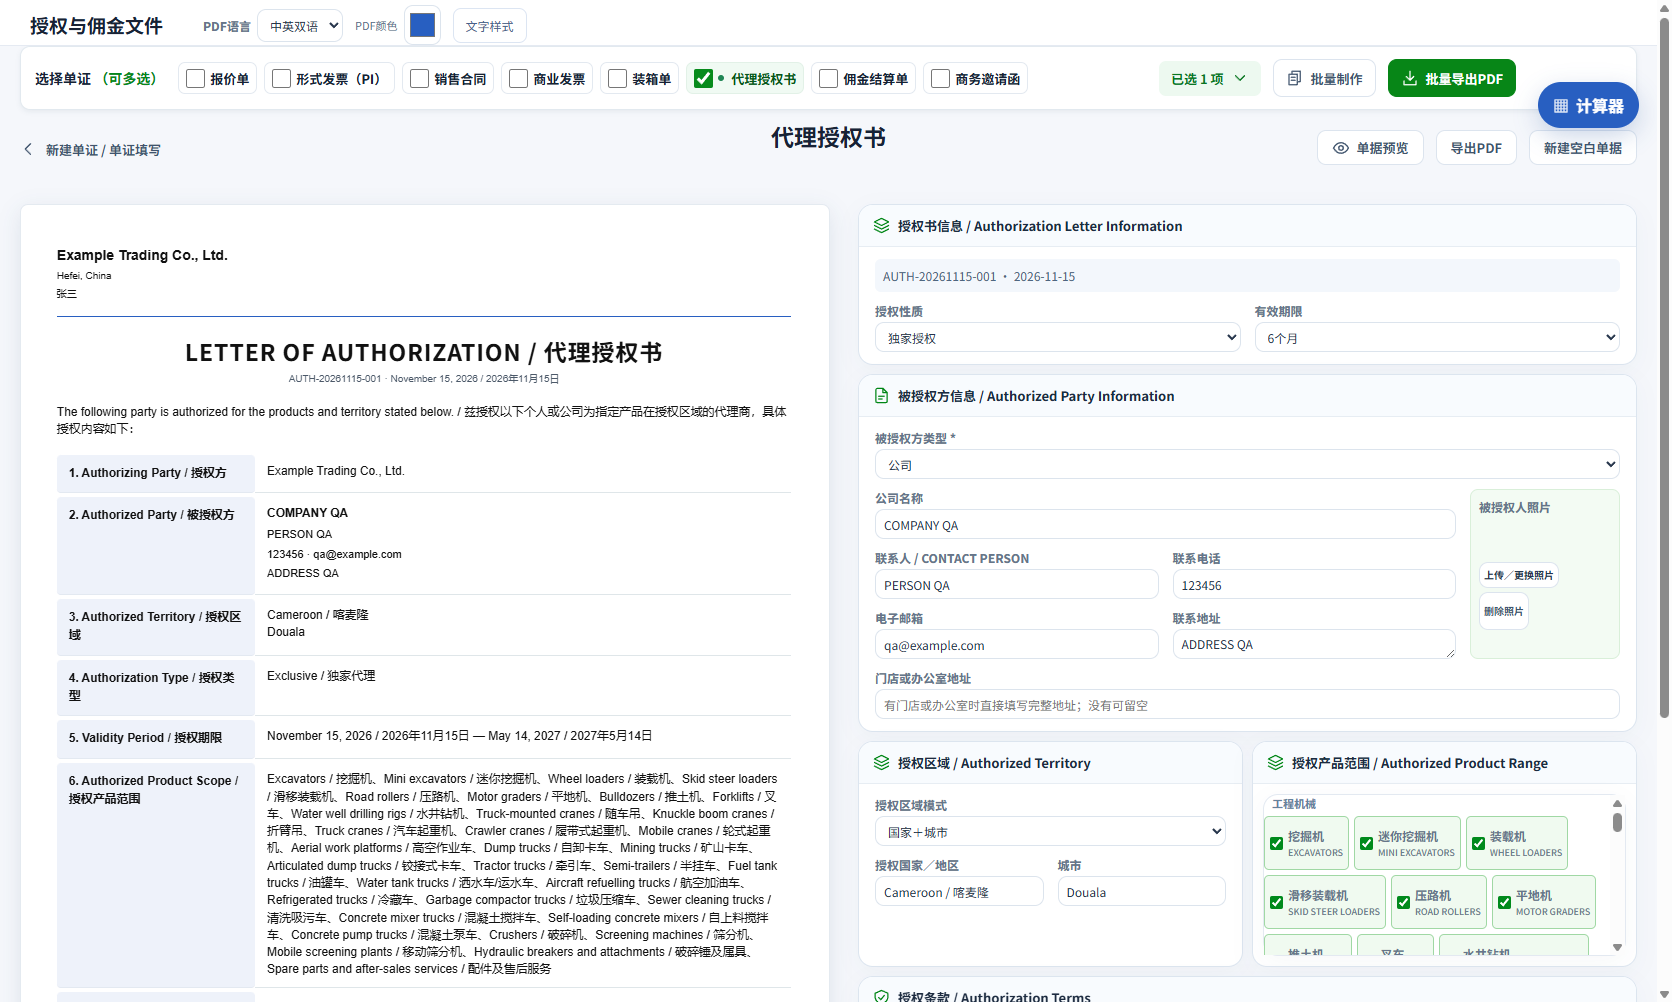
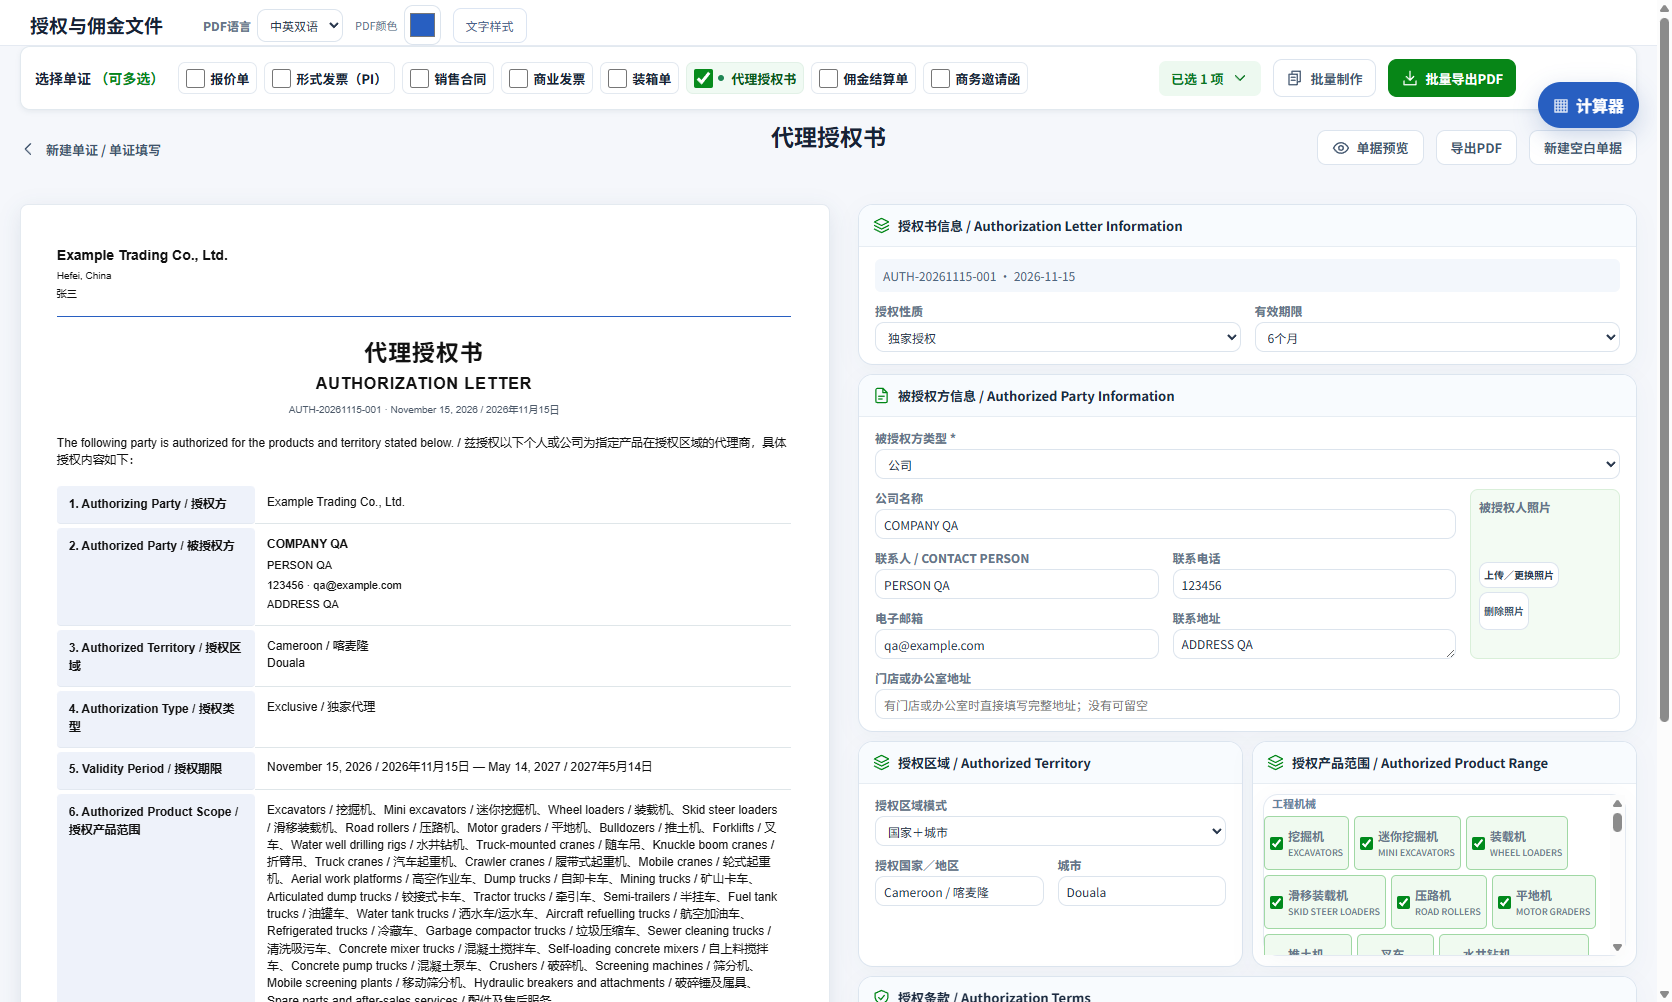
Align authorization display controls and updated regression fixtures

Changed region(s): [[0.0311, 0.3403, 0.4665, 1.0]]

diff --git a/assets/authorization-model.js b/assets/authorization-model.js
@@ -7,8 +7,9 @@
  function render(record,company,config,tools){const e=escape,t=(en,zh)=>tools.text(en,zh),lang=record.language||'bilingual',isZh=lang==='zh',name=isZh?company.companyNameZh||company.companyNameEn:company.companyNameEn||company.companyNameZh,party=get(record,'authorizedPartyType')==='company'?get(record,'recipientCompany'):record.agentName,country=tools.country(record.country,lang),city=get(record,'territoryMode')==='city'?get(record,'authorizedCity'):t('Nationwide','全国范围'),photo=tools.safeImage(get(record,'authorizedPhoto')),color=/^#[0-9a-f]{6}$/i.test(record.tableHeaderColor)?record.tableHeaderColor:'#008900',showHeader=get(record,'showCompanyHeader',true)!==false,showLogo=get(record,'showLogo',true)!==false,logo=tools.safeImage(company.logoDataUrl),field=key=>Object.values(config?.blocks||{}).flat().find(f=>f.fieldKey===key),visible=key=>{const f=field(key);return !f||!f.deletedAt&&f.visible!==false&&f.active!==false;};
  const extra=[...new Set(Object.values(config?.blocks||{}).flat().filter(f=>visible(f.fieldKey)&&!['authorizationNumber','date','validUntil','agentName','country','idNumber','phone','email','address','officeAddress','selectedProducts','authorizationType','extraTerms',...Object.keys(defaults),'recipientCompany'].includes(f.fieldKey)).map(f=>f.fieldKey))].filter(key=>get(record,key)!==''&&get(record,key)!==undefined).map(key=>'<p><b>'+e(t(field(key)?.en||key,field(key)?.zh||key))+'</b> '+e(tools.value?tools.value(field(key),get(record,key)):get(record,key))+'</p>').join('');
  const clauses=[['allowBrandUse','The authorized party may promote and sell the designated products under the company brand within the authorized territory.','被授权方可在授权区域内推广和销售本公司品牌的指定产品。'],['noSubAuthorization','No sub-authorization.','不得转授权。'],['finalPriceConfirmation','Final prices are subject to seller confirmation.','最终价格须经卖方确认。']].filter(([key])=>visible(key)&&get(record,key,true)!==false).map(([,en,zh])=>'<li>'+e(t(en,zh))+'</li>').join('');
+ const titleHTML=['bilingual','zh-en'].includes(lang)?'<h1>代理授权书</h1><div class="authorization-title-en">AUTHORIZATION LETTER</div>':'<h1>'+e(t('Letter of Authorization','代理授权书'))+'</h1>';
  const row=(number,en,zh,content,cls='')=>'<tr class="'+cls+'"><th>'+number+'. '+e(t(en,zh))+'</th><td>'+content+'</td></tr>',signature=tools.signing(record,company,'authorization');
- return '<section class="agency-sheet authorization-letter-v2" style="--authorization-accent:'+color+'"><header class="authorization-letterhead">'+(showLogo&&logo?'<img class="authorization-logo" src="'+e(logo)+'" alt="Logo">':'')+(showHeader?'<div><b>'+e(name)+'</b><small>'+e(isZh?company.companyAddressZh||company.companyAddressEn:company.companyAddressEn||company.companyAddressZh)+'</small><small>'+e([signature.name,company.phone||company.contactPhone,company.email].filter(Boolean).join('  ·  '))+'</small></div>':'')+'</header><h1>'+e(t('LETTER OF AUTHORIZATION','代理授权书'))+'</h1><div class="authorization-paper-meta">'+e(record.authorizationNumber)+' · '+e(tools.date(record.date,lang))+'</div><p>'+e(t('The following party is authorized for the products and territory stated below.','兹授权以下个人或公司为指定产品在授权区域的代理商，具体授权内容如下：'))+'</p><table class="authorization-information"><colgroup><col style="width:27%"><col style="width:73%"></colgroup><tbody>'+row(1,'Authorizing Party','授权方',e(name))+row(2,'Authorized Party','被授权方',(photo?'<figure class="authorization-person-photo"><img src="'+e(photo)+'" alt="Authorized person"><figcaption>'+e(t('Authorized person photo','被授权人照片'))+'</figcaption></figure>':'')+'<b>'+e(party)+'</b>'+(get(record,'authorizedPartyType')==='company'?'<p>'+e(record.agentName)+'</p>':'')+'<p>'+e([visible('phone')?record.phone:'',visible('email')?record.email:''].filter(Boolean).join(' · '))+'</p>'+(visible('address')&&record.address?'<p>'+e(record.address)+'</p>':'')+(visible('idNumber')&&record.idNumber?'<p>'+e(t('ID / Passport No.','证件号码'))+': '+e(record.idNumber)+'</p>':''))+row(3,'Authorized Territory','授权区域',e(country)+'<br>'+e(city))+row(4,'Authorization Type','授权类型',e(get(record,'authorizationType','non-exclusive')==='exclusive'?t('Exclusive','独家代理'):t('Non-exclusive','非独家代理')))+row(5,'Validity Period','授权期限',e(tools.date(record.date,lang))+' — '+e(tools.date(record.validUntil,lang)))+row(6,'Authorized Product Scope','授权产品范围',e(tools.products(record)))+row(7,'Terms of Authorization','授权条款','<ul>'+clauses+'</ul>'+(record.extraTerms?'<p class="preserve-lines">'+e(record.extraTerms)+'</p>':'')+extra)+row(8,'Signature and Seal','签章区','<div class="authorization-signatures"><div><b>'+e(t('Authorizing Party','授权方'))+': '+e(name)+'</b><p>'+e(t('Authorized Signatory','授权代表'))+': '+e(signature.name)+'</p></div>'+tools.signingHTML(signature)+'</div>')+'</tbody></table></section>';
+ return '<section class="agency-sheet authorization-letter-v2" style="--authorization-accent:'+color+'"><header class="authorization-letterhead">'+(showLogo&&logo?'<img class="authorization-logo" src="'+e(logo)+'" alt="Logo">':'')+(showHeader?'<div><b>'+e(name)+'</b><small>'+e(isZh?company.companyAddressZh||company.companyAddressEn:company.companyAddressEn||company.companyAddressZh)+'</small><small>'+e([signature.name,company.phone||company.contactPhone,company.email].filter(Boolean).join('  ·  '))+'</small></div>':'')+'</header>'+titleHTML+'<div class="authorization-paper-meta">'+e(record.authorizationNumber)+' · '+e(tools.date(record.date,lang))+'</div><p>'+e(t('The following party is authorized for the products and territory stated below.','兹授权以下个人或公司为指定产品在授权区域的代理商，具体授权内容如下：'))+'</p><table class="authorization-information"><colgroup><col style="width:27%"><col style="width:73%"></colgroup><tbody>'+row(1,'Authorizing Party','授权方',e(name))+row(2,'Authorized Party','被授权方',(photo?'<figure class="authorization-person-photo"><img src="'+e(photo)+'" alt="Authorized person"><figcaption>'+e(t('Authorized person photo','被授权人照片'))+'</figcaption></figure>':'')+'<b>'+e(party)+'</b>'+(get(record,'authorizedPartyType')==='company'?'<p>'+e(record.agentName)+'</p>':'')+'<p>'+e([visible('phone')?record.phone:'',visible('email')?record.email:''].filter(Boolean).join(' · '))+'</p>'+(visible('address')&&record.address?'<p>'+e(record.address)+'</p>':'')+(visible('idNumber')&&record.idNumber?'<p>'+e(t('ID / Passport No.','证件号码'))+': '+e(record.idNumber)+'</p>':''))+row(3,'Authorized Territory','授权区域',e(country)+'<br>'+e(city))+row(4,'Authorization Type','授权类型',e(get(record,'authorizationType','non-exclusive')==='exclusive'?t('Exclusive','独家代理'):t('Non-exclusive','非独家代理')))+row(5,'Validity Period','授权期限',e(tools.date(record.date,lang))+' — '+e(tools.date(record.validUntil,lang)))+row(6,'Authorized Product Scope','授权产品范围',e(tools.products(record)))+row(7,'Terms of Authorization','授权条款','<ul>'+clauses+'</ul>'+(record.extraTerms?'<p class="preserve-lines">'+e(record.extraTerms)+'</p>':'')+extra)+row(8,'Signature and Seal','签章区','<div class="authorization-signatures"><div><b>'+e(t('Authorizing Party','授权方'))+': '+e(name)+'</b><p>'+e(t('Authorized Signatory','授权代表'))+': '+e(signature.name)+'</p></div>'+tools.signingHTML(signature)+'</div>')+'</tbody></table></section>';
  }
  return {defaults,get,expiry,initialize,validation,render};
 });

diff --git a/assets/authorization-workspace.css b/assets/authorization-workspace.css
@@ -84,3 +84,22 @@ body #view-agency.authorization-v2-editor #agency-product-options label:has(inpu
 @media screen{#view-agency.authorization-v2-editor [data-authorization-group=customer] [data-form-field=address]{grid-column:auto!important}#view-agency.authorization-v2-editor .composer-title [data-document-identity]{display:none}#view-agency.authorization-v2-editor [data-receiving-visible]{display:none}#view-agency.authorization-v2-editor label:has(>[data-receiving-visible]){display:none!important}#view-agency.authorization-v2-editor #agency-product-options label:has(input:checked){box-shadow:none!important;outline:none!important}}
 
 @media print{body.printing-agency #view-agency.authorization-v2-editor>#authorization-workspace{display:block!important}body.printing-agency #authorization-workspace>.authorization-form{display:none!important}body.printing-agency #authorization-workspace>.authorization-live{position:static;padding:0;border:0;box-shadow:none;overflow:visible}body.printing-agency #authorization-workspace #agency-preview{zoom:1!important;width:100%!important}}
+
+@media screen{
+ #view-agency.authorization-v2-editor [data-authorization-group=display]>.form-grid{grid-template-columns:repeat(4,minmax(0,1fr));gap:10px}
+ #view-agency.authorization-v2-editor #document-output-options-agency,#view-agency.authorization-v2-editor #signing-controls-agency{display:contents!important}
+ #view-agency.authorization-v2-editor [data-authorization-group=display] label{display:flex;flex-direction:row;align-items:center;gap:7px;min-height:36px;padding:5px 0;order:1}
+ #view-agency.authorization-v2-editor #signing-controls-agency>label:first-child{grid-column:1/-1;order:2}
+ #view-agency.authorization-v2-editor #signing-controls-agency>label:first-child select{max-width:240px}
+ #view-agency.authorization-v2-editor [data-authorization-group=display] input[type=checkbox]{appearance:none!important;width:33px!important;min-width:33px!important;height:18px!important;min-height:18px!important;border:0!important;border-radius:20px!important;background:#9ca9b6!important;position:relative;cursor:pointer}
+ #view-agency.authorization-v2-editor [data-authorization-group=display] input[type=checkbox]:before{content:'';position:absolute;left:2px;top:2px;width:14px;height:14px;background:#fff;border-radius:50%;transition:transform .12s}
+ #view-agency.authorization-v2-editor [data-authorization-group=display] input[type=checkbox]:checked{background:#008e22!important}
+ #view-agency.authorization-v2-editor [data-authorization-group=display] input[type=checkbox]:checked:before{transform:translateX(15px)}
+}
+
+.authorization-title-en{text-align:center;font-size:16px;letter-spacing:1px;margin:0 0 8px;font-weight:600}
+@media screen{
+ #view-agency.authorization-v2-editor [data-authorization-group=terms]>.form-grid>label:has(input[type=checkbox]){display:flex!important;align-items:center;flex-direction:row!important;background:transparent!important;border:0!important;padding:0!important;min-height:25px;gap:8px}
+ #view-agency.authorization-v2-editor [data-authorization-group=terms] input[type=checkbox],#view-agency.authorization-v2-editor [data-authorization-group=display] input[type=checkbox]{order:-1}
+ #view-agency.authorization-v2-editor [data-authorization-group=display] label:not(:has([data-signature-choice])){background:#f5fbf7!important;border:1px solid #d7e8dc!important;border-radius:6px!important;min-height:38px;padding:6px 8px!important;font-size:12px}
+}
